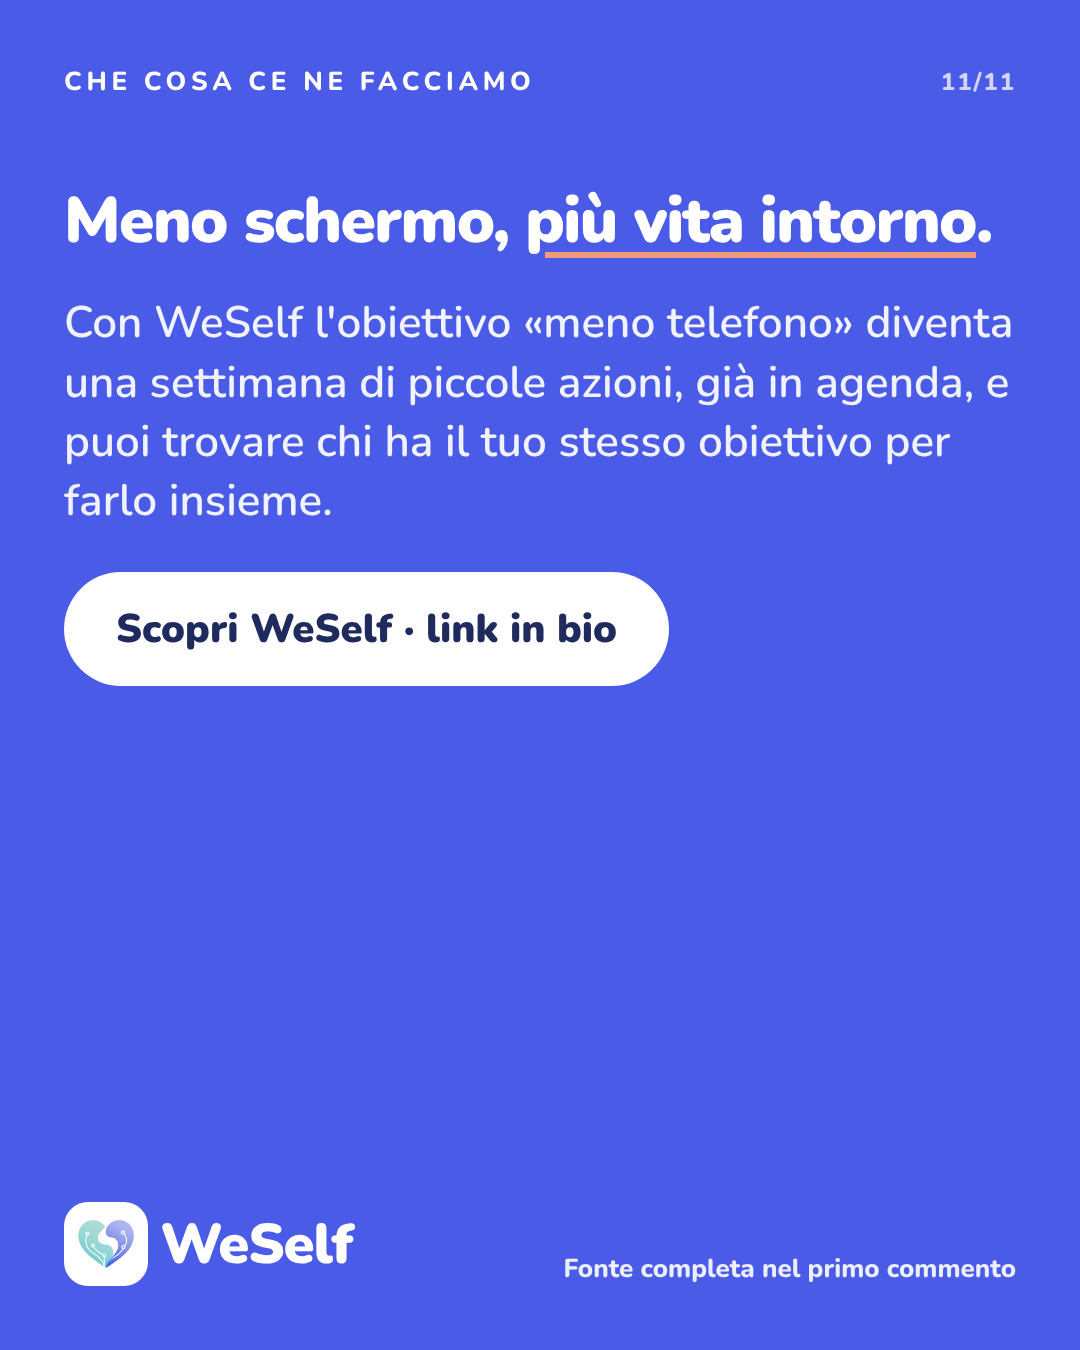
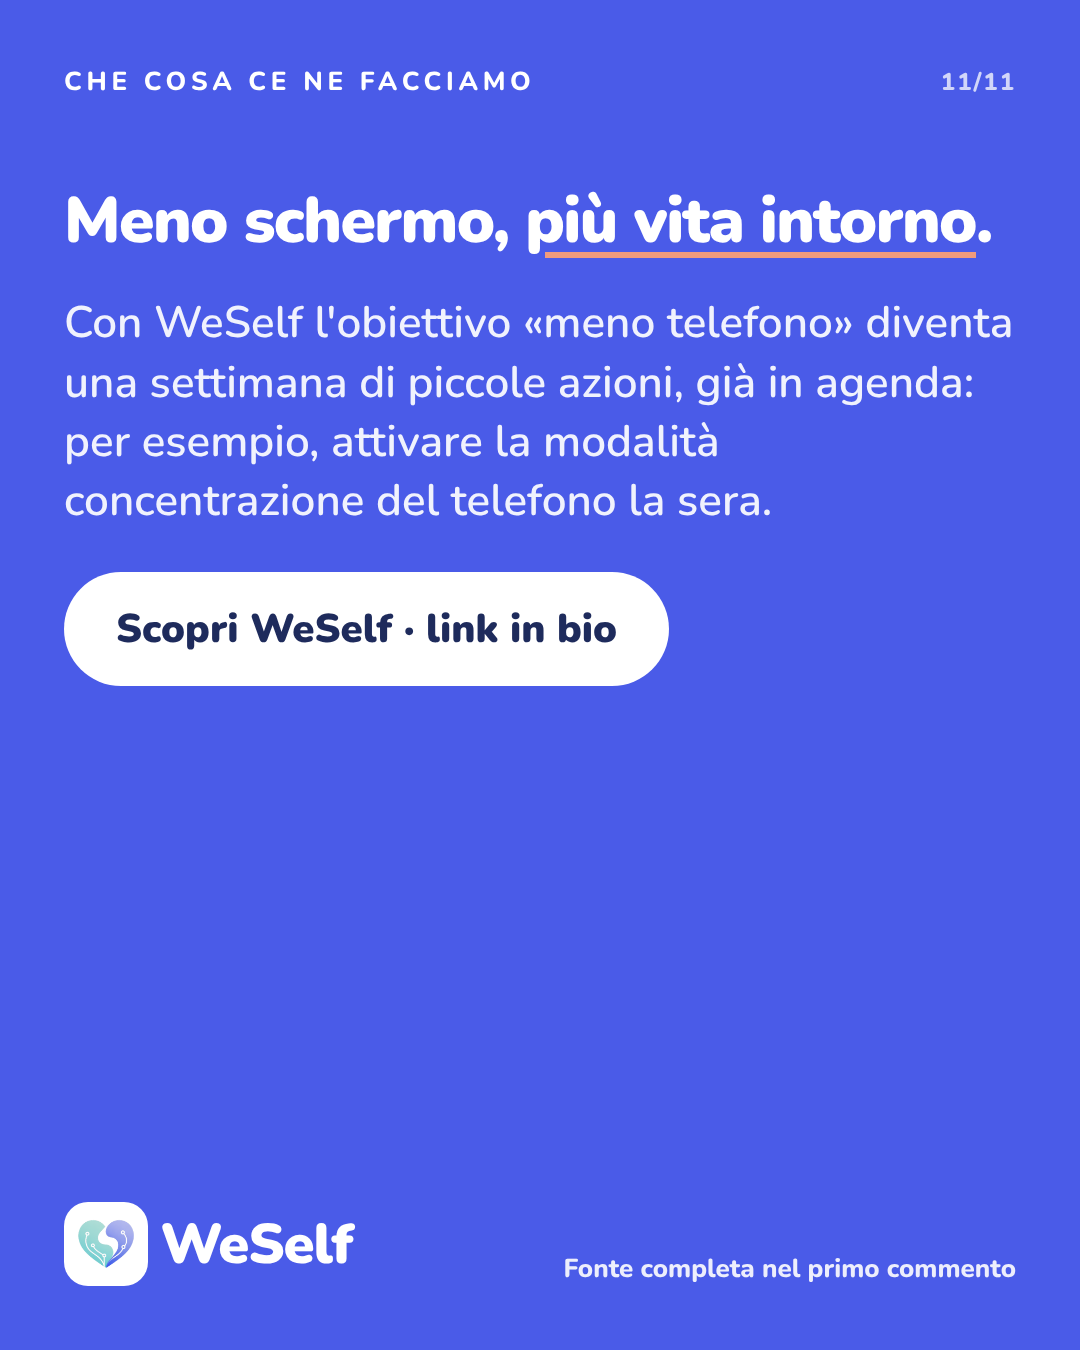
Carosello senza-internet: nuove modifiche del fondatore (slide 5, 6, 11)
Claude-Session: https://claude.ai/code/session_01KYQeP73Zvn8PeP6zhkL2Sc

Changed region(s): [[0.0611, 0.3111, 0.8861, 0.4044], [0.9167, 0.28, 0.9472, 0.3111]]

diff --git a/carosselli/senza-internet/editor-testi.html b/carosselli/senza-internet/editor-testi.html
@@ -259,20 +259,20 @@ svg.shape{position:absolute;z-index:1}
       <div><span class="ic" data-e="s5-7">↑</span><p><b data-e="s5-8">Salute mentale</b><span data-e="s5-9">Meno sintomi, per esempio di ansia e di umore giù.</span></p></div>
       <div><span class="ic" data-e="s5-10">↑</span><p><b data-e="s5-11">Attenzione</b><span data-e="s5-12">Nel test al computer: secondo gli autori, un miglioramento simile a 10 anni di invecchiamento in meno.</span></p></div>
     </div>
-    <p class="mid" style="font-size:27px" data-e="s5-13">Le stesse cose sono successe all'altro gruppo, quando è arrivato il suo turno. E nel primo gruppo benessere e salute mentale sono rimasti più alti anche due settimane dopo.</p>
+    <p class="mid" style="font-size:27px" data-e="s5-13">Le stesse cose sono successe all'altro gruppo, quando è arrivato il loro turno. E nel primo gruppo benessere e salute mentale sono rimasti più alti anche due settimane dopo.</p>
   </div>
   <p class="next" data-e="s5-14">Perché? →</p>
   <div class="src"><b data-e="s5-15">FONTE</b><span data-e="s5-16"><em>Castelo et al., 2025</em> · PNAS Nexus</span></div>
 </section></div></div></div><div class="cell"><span class="lab">Slide 6 di 11</span><div class="frame"><div class="deck"><section class="slide" id="s6">
   <div class="top"><p class="kicker we" data-e="s6-1">Perché</p><div class="count" data-e="s6-2">6/11</div></div>
   <div class="stack" style="margin-top:44px;gap:26px">
-    <h2 style="font-size:50px" data-e="s6-3">Il tempo liberato è andato <span class="hl t">al mondo fuori dallo schermo</span>.</h2>
+    <h2 style="font-size:50px" data-e="s6-3">Il tempo «liberato» è andato <span class="hl t">al mondo fuori dallo schermo</span>.</h2>
     <div class="tiles">
       <div class="p" data-e="s6-4"><svg width="90" height="70" viewBox="0 0 90 70"><path d="M10 10 h40 a10 10 0 0 1 10 10 v14 a10 10 0 0 1 -10 10 h-24 l-12 10 v-10 a10 10 0 0 1 -14 -10 v-14 a10 10 0 0 1 10 -10z" fill="#4A5BE8"></path><path d="M50 26 h20 a10 10 0 0 1 10 10 v12 a10 10 0 0 1 -6 9 v10 l-12 -9 h-12 a10 10 0 0 1 -10 -10" fill="#8B93E8"></path></svg>Stare con le persone dal vivo</div>
       <div class="t" data-e="s6-5"><svg width="90" height="70" viewBox="0 0 90 70"><path d="M8 52 C 30 52 32 30 46 30 C 60 30 62 52 84 52" stroke="#0F6F6F" stroke-width="10" fill="none" stroke-linecap="round"></path><circle cx="46" cy="16" r="10" fill="#0F6F6F"></circle></svg>Fare movimento</div>
       <div class="c" data-e="s6-6"><svg width="90" height="70" viewBox="0 0 90 70"><rect x="40" y="38" width="10" height="30" rx="4" fill="#A64A30"></rect><circle cx="45" cy="28" r="24" fill="#F09B7C"></circle></svg>Stare all'aperto</div>
     </div>
-    <p class="mid" style="font-size:29px" data-e="s6-7">Le persone hanno passato più tempo così (e con hobby e libri) e meno a guardare video e notizie. Si sono sentite più in contatto con gli altri, più padrone di sé e hanno dormito un po' di più.<br><br>Secondo gli autori, questi cambiamenti aiutano a spiegare il miglioramento di benessere e salute mentale.</p>
+    <p class="mid" style="font-size:29px" data-e="s6-7">Le persone hanno passato più tempo così (e con hobby e libri) e meno a guardare video e notizie. Si sono sentite più in contatto con gli altri, più padrone di sé stesse e hanno dormito un po' di più.<br><br>Secondo gli autori, questi cambiamenti aiutano a spiegare il miglioramento di benessere e salute mentale.</p>
   </div>
   <p class="next" data-e="s6-8">Ma è stato facile? →</p>
   <div class="src"><b data-e="s6-9">FONTE</b><span data-e="s6-10"><em>Castelo et al., 2025</em> · PNAS Nexus</span></div>
@@ -322,7 +322,7 @@ svg.shape{position:absolute;z-index:1}
   <div class="top"><p class="kicker" data-e="s11-1">Che cosa ce ne facciamo</p><div class="count" data-e="s11-2">11/11</div></div>
   <div class="stack" style="margin-top:90px">
     <h2 style="font-size:64px" data-e="s11-3">Meno schermo, <span class="hl">più vita intorno</span>.</h2>
-    <p class="body" style="opacity:.92" data-e="s11-4">Con WeSelf l'obiettivo «meno telefono» diventa una settimana di piccole azioni, già in agenda, e puoi trovare chi ha il tuo stesso obiettivo per farlo insieme.</p>
+    <p class="body" style="opacity:.92" data-e="s11-4">Con WeSelf l'obiettivo «meno telefono» diventa una settimana di piccole azioni, già in agenda: per esempio, attivare la modalità concentrazione del telefono la sera.</p>
     <span class="btn" data-e="s11-5">Scopri WeSelf · link in bio</span>
   </div>
   <div class="ctafoot">

diff --git a/carosselli/senza-internet/slides.html b/carosselli/senza-internet/slides.html
@@ -228,7 +228,7 @@ svg.shape{position:absolute;z-index:1}
       <div><span class="ic">↑</span><p><b>Salute mentale</b><span>Meno sintomi, per esempio di ansia e di umore giù.</span></p></div>
       <div><span class="ic">↑</span><p><b>Attenzione</b><span>Nel test al computer: secondo gli autori, un miglioramento simile a 10 anni di invecchiamento in meno.</span></p></div>
     </div>
-    <p class="mid" style="font-size:27px">Le stesse cose sono successe all'altro gruppo, quando è arrivato il suo turno. E nel primo gruppo benessere e salute mentale sono rimasti più alti anche due settimane dopo.</p>
+    <p class="mid" style="font-size:27px">Le stesse cose sono successe all'altro gruppo, quando è arrivato il loro turno. E nel primo gruppo benessere e salute mentale sono rimasti più alti anche due settimane dopo.</p>
   </div>
   <p class="next">Perché? →</p>
   <div class="src"><b>FONTE</b><span><em>Castelo et al., 2025</em> · PNAS Nexus</span></div>
@@ -237,13 +237,13 @@ svg.shape{position:absolute;z-index:1}
 <section class="slide" id="s6">
   <div class="top"><p class="kicker we">Perché</p><div class="count">6/11</div></div>
   <div class="stack" style="margin-top:44px;gap:26px">
-    <h2 style="font-size:50px">Il tempo liberato è andato <span class="hl t">al mondo fuori dallo schermo</span>.</h2>
+    <h2 style="font-size:50px">Il tempo «liberato» è andato <span class="hl t">al mondo fuori dallo schermo</span>.</h2>
     <div class="tiles">
       <div class="p"><svg width="90" height="70" viewBox="0 0 90 70"><path d="M10 10 h40 a10 10 0 0 1 10 10 v14 a10 10 0 0 1 -10 10 h-24 l-12 10 v-10 a10 10 0 0 1 -14 -10 v-14 a10 10 0 0 1 10 -10z" fill="#4A5BE8"></path><path d="M50 26 h20 a10 10 0 0 1 10 10 v12 a10 10 0 0 1 -6 9 v10 l-12 -9 h-12 a10 10 0 0 1 -10 -10" fill="#8B93E8"></path></svg>Stare con le persone dal vivo</div>
       <div class="t"><svg width="90" height="70" viewBox="0 0 90 70"><path d="M8 52 C 30 52 32 30 46 30 C 60 30 62 52 84 52" stroke="#0F6F6F" stroke-width="10" fill="none" stroke-linecap="round"></path><circle cx="46" cy="16" r="10" fill="#0F6F6F"></circle></svg>Fare movimento</div>
       <div class="c"><svg width="90" height="70" viewBox="0 0 90 70"><rect x="40" y="38" width="10" height="30" rx="4" fill="#A64A30"></rect><circle cx="45" cy="28" r="24" fill="#F09B7C"></circle></svg>Stare all'aperto</div>
     </div>
-    <p class="mid" style="font-size:29px">Le persone hanno passato più tempo così (e con hobby e libri) e meno a guardare video e notizie. Si sono sentite più in contatto con gli altri, più padrone di sé e hanno dormito un po' di più.<br><br>Secondo gli autori, questi cambiamenti aiutano a spiegare il miglioramento di benessere e salute mentale.</p>
+    <p class="mid" style="font-size:29px">Le persone hanno passato più tempo così (e con hobby e libri) e meno a guardare video e notizie. Si sono sentite più in contatto con gli altri, più padrone di sé stesse e hanno dormito un po' di più.<br><br>Secondo gli autori, questi cambiamenti aiutano a spiegare il miglioramento di benessere e salute mentale.</p>
   </div>
   <p class="next">Ma è stato facile? →</p>
   <div class="src"><b>FONTE</b><span><em>Castelo et al., 2025</em> · PNAS Nexus</span></div>
@@ -303,7 +303,7 @@ svg.shape{position:absolute;z-index:1}
   <div class="top"><p class="kicker">Che cosa ce ne facciamo</p><div class="count">11/11</div></div>
   <div class="stack" style="margin-top:90px">
     <h2 style="font-size:64px">Meno schermo, <span class="hl">più vita intorno</span>.</h2>
-    <p class="body" style="opacity:.92">Con WeSelf l'obiettivo «meno telefono» diventa una settimana di piccole azioni, già in agenda, e puoi trovare chi ha il tuo stesso obiettivo per farlo insieme.</p>
+    <p class="body" style="opacity:.92">Con WeSelf l'obiettivo «meno telefono» diventa una settimana di piccole azioni, già in agenda: per esempio, attivare la modalità concentrazione del telefono la sera.</p>
     <span class="btn">Scopri WeSelf · link in bio</span>
   </div>
   <div class="ctafoot">

diff --git a/carosselli/senza-internet/body.html b/carosselli/senza-internet/body.html
@@ -153,7 +153,7 @@
       <div><span class="ic">↑</span><p><b>Salute mentale</b><span>Meno sintomi, per esempio di ansia e di umore giù.</span></p></div>
       <div><span class="ic">↑</span><p><b>Attenzione</b><span>Nel test al computer: secondo gli autori, un miglioramento simile a 10 anni di invecchiamento in meno.</span></p></div>
     </div>
-    <p class="mid" style="font-size:27px">Le stesse cose sono successe all'altro gruppo, quando è arrivato il suo turno. E nel primo gruppo benessere e salute mentale sono rimasti più alti anche due settimane dopo.</p>
+    <p class="mid" style="font-size:27px">Le stesse cose sono successe all'altro gruppo, quando è arrivato il loro turno. E nel primo gruppo benessere e salute mentale sono rimasti più alti anche due settimane dopo.</p>
   </div>
   <p class="next">Perché? →</p>
   <div class="src"><b>FONTE</b><span><em>Castelo et al., 2025</em> · PNAS Nexus</span></div>
@@ -162,13 +162,13 @@
 <section class="slide" id="s6">
   <div class="top"><p class="kicker we">Perché</p><div class="count">6/11</div></div>
   <div class="stack" style="margin-top:44px;gap:26px">
-    <h2 style="font-size:50px">Il tempo liberato è andato <span class="hl t">al mondo fuori dallo schermo</span>.</h2>
+    <h2 style="font-size:50px">Il tempo «liberato» è andato <span class="hl t">al mondo fuori dallo schermo</span>.</h2>
     <div class="tiles">
       <div class="p"><svg width="90" height="70" viewBox="0 0 90 70"><path d="M10 10 h40 a10 10 0 0 1 10 10 v14 a10 10 0 0 1 -10 10 h-24 l-12 10 v-10 a10 10 0 0 1 -14 -10 v-14 a10 10 0 0 1 10 -10z" fill="#4A5BE8"></path><path d="M50 26 h20 a10 10 0 0 1 10 10 v12 a10 10 0 0 1 -6 9 v10 l-12 -9 h-12 a10 10 0 0 1 -10 -10" fill="#8B93E8"></path></svg>Stare con le persone dal vivo</div>
       <div class="t"><svg width="90" height="70" viewBox="0 0 90 70"><path d="M8 52 C 30 52 32 30 46 30 C 60 30 62 52 84 52" stroke="#0F6F6F" stroke-width="10" fill="none" stroke-linecap="round"></path><circle cx="46" cy="16" r="10" fill="#0F6F6F"></circle></svg>Fare movimento</div>
       <div class="c"><svg width="90" height="70" viewBox="0 0 90 70"><rect x="40" y="38" width="10" height="30" rx="4" fill="#A64A30"></rect><circle cx="45" cy="28" r="24" fill="#F09B7C"></circle></svg>Stare all'aperto</div>
     </div>
-    <p class="mid" style="font-size:29px">Le persone hanno passato più tempo così (e con hobby e libri) e meno a guardare video e notizie. Si sono sentite più in contatto con gli altri, più padrone di sé e hanno dormito un po' di più.<br><br>Secondo gli autori, questi cambiamenti aiutano a spiegare il miglioramento di benessere e salute mentale.</p>
+    <p class="mid" style="font-size:29px">Le persone hanno passato più tempo così (e con hobby e libri) e meno a guardare video e notizie. Si sono sentite più in contatto con gli altri, più padrone di sé stesse e hanno dormito un po' di più.<br><br>Secondo gli autori, questi cambiamenti aiutano a spiegare il miglioramento di benessere e salute mentale.</p>
   </div>
   <p class="next">Ma è stato facile? →</p>
   <div class="src"><b>FONTE</b><span><em>Castelo et al., 2025</em> · PNAS Nexus</span></div>
@@ -228,7 +228,7 @@
   <div class="top"><p class="kicker">Che cosa ce ne facciamo</p><div class="count">11/11</div></div>
   <div class="stack" style="margin-top:90px">
     <h2 style="font-size:64px">Meno schermo, <span class="hl">più vita intorno</span>.</h2>
-    <p class="body" style="opacity:.92">Con WeSelf l'obiettivo «meno telefono» diventa una settimana di piccole azioni, già in agenda, e puoi trovare chi ha il tuo stesso obiettivo per farlo insieme.</p>
+    <p class="body" style="opacity:.92">Con WeSelf l'obiettivo «meno telefono» diventa una settimana di piccole azioni, già in agenda: per esempio, attivare la modalità concentrazione del telefono la sera.</p>
     <span class="btn">Scopri WeSelf · link in bio</span>
   </div>
   <div class="ctafoot">

diff --git a/carosselli/senza-internet/kit-pubblicazione-senza-internet.md b/carosselli/senza-internet/kit-pubblicazione-senza-internet.md
@@ -62,7 +62,7 @@ Come abbiamo letto i numeri: il tempo al telefono (dalle schermate del tempo di 
 8. Mito o realtà? «Senza internet sul telefono si sta peggio: ci si sente tagliati fuori.» Mito.
 9. I limiti: aspettative dei partecipanti, solo due settimane, circa il 67% ha completato lo studio, blocco totale di internet.
 10. Prova così: scegli un momento, scrivi il tuo «se… allora…», dai un posto al tempo liberato.
-11. Meno schermo, più vita intorno. Con WeSelf l'obiettivo «meno telefono» diventa piccole azioni in agenda, con chi ha il tuo stesso obiettivo. Scopri WeSelf, link in bio.
+11. Meno schermo, più vita intorno. Con WeSelf l'obiettivo «meno telefono» diventa piccole azioni in agenda, per esempio attivare la modalità concentrazione del telefono la sera. Scopri WeSelf, link in bio.
 
 ## Note di affidabilità
 
